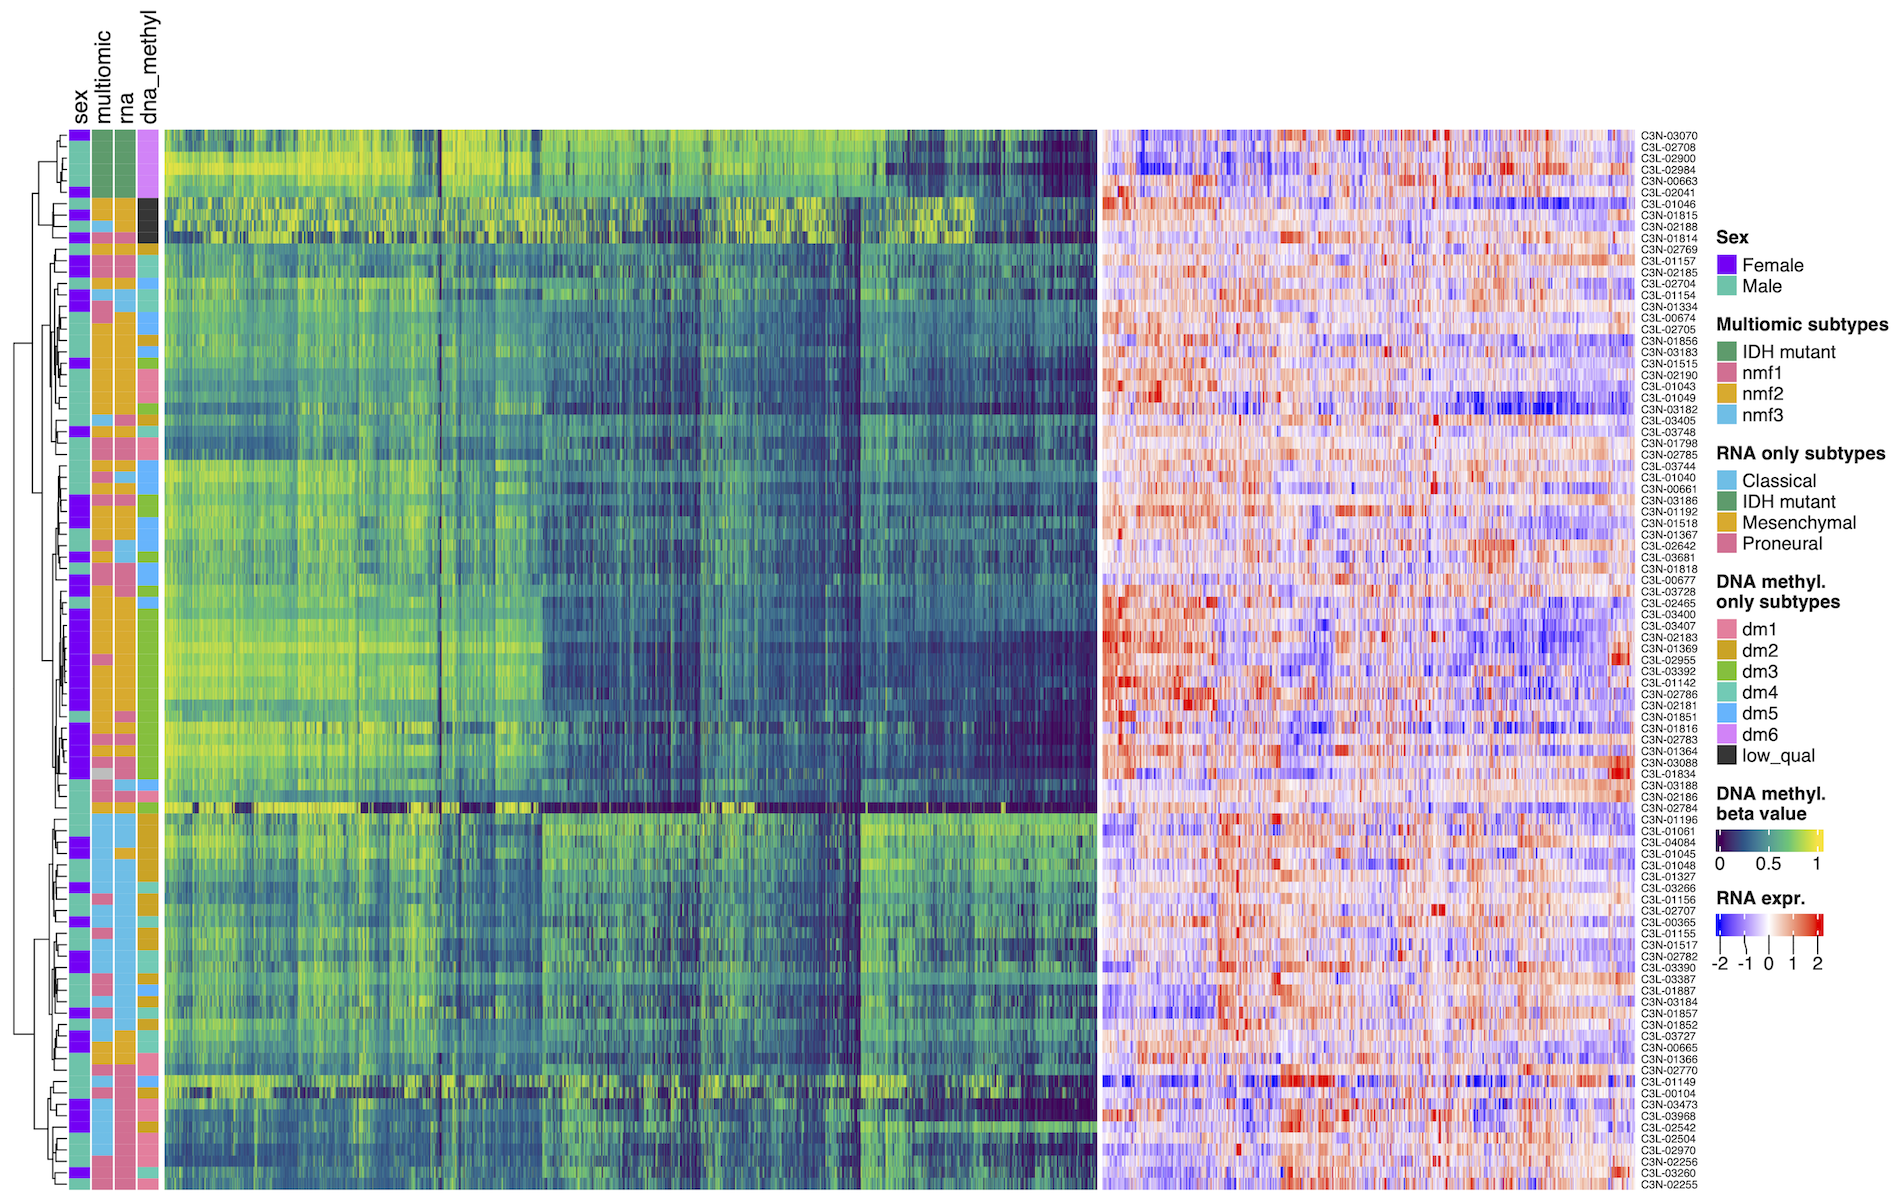
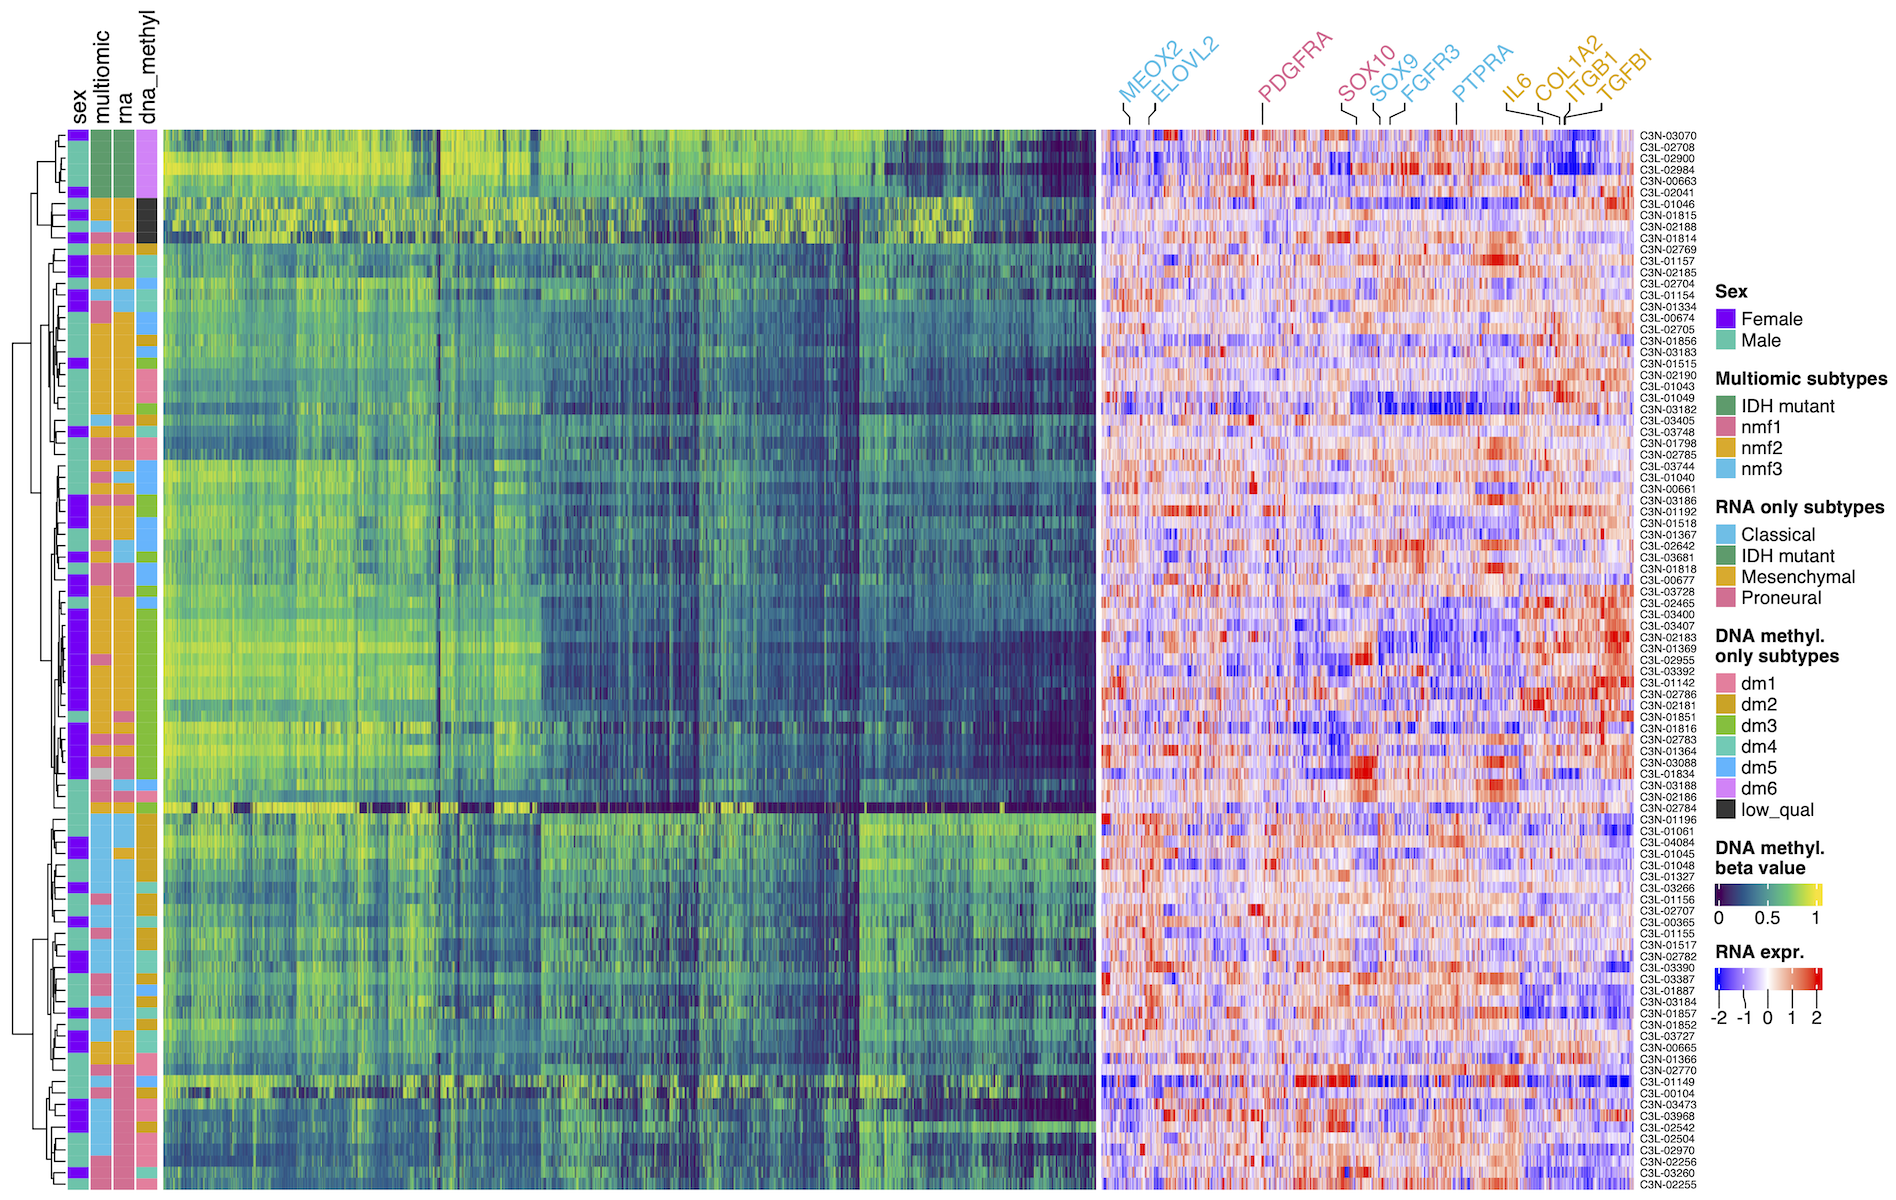
Update heatmap

diff --git a/index.html b/index.html
@@ -1451,7 +1451,7 @@ ggplot(plot_tbl, aes(x = sample, y = completeness)) +
 top_var_probe_ids = assay(dna_methyl) |> rowSds() |>
 	order(decreasing = TRUE) |> head(8000)
 dna_methyl = dna_methyl[top_var_probe_ids, ] |>
-	sort(ignore.strand = TRUE) </code>
+	sort(ignore.strand = TRUE)</code>
 			</pre>
 			<figure class="next">
 				<img class="fill w"
@@ -1654,14 +1654,62 @@ draw(ht_list, merge_legends = TRUE)</code>
 		</style>
 	</section>
 
+	<section id="data-overview-prep" class="slide">
+		<h2>Let's make a data overview heatmap</h2>
+		<div class="two columns l40">
+			<ol>
+				<li>Exclude the features on sex chromosomes (?)</li>
+				<li>Select top variable features</li>
+				<li>Normalize gene expression <br>(relative in[de]crease)</li>
+				<li>Include more sample annotations</li>
+			</ol>
+			<pre class="language-r dense next">
+<code># 1&amp;2. Subset/reorder/rename
+top_variable_genes = rna |>
+    subset(!seqnames %in% c("chrX", "chrY", "chrM"), ) |>
+    assay("tpm_unstranded") |>
+    rowSds() |>
+	order(decreasing = TRUE) |> head(2000)
+rna_top_var = rna[top_variable_genes, shared_samples]
+rownames(rna_top_var) = rowData(rna_top_var)$gene_name
+
+# 3. Normalize gene expression per gene/row
+assay(rna_top_var, "norm_expr") =
+	log2(assay(rna_top_var) + 1) |>
+    t() |>
+	scale(center = T, scale = T) |>
+	t()</code>
+			</pre>
+		</div>
+		<style>
+		</style>
+	</section>
+
 	<section id="data-overview-heatmap" class="slide tight wider">
-		<h2>Data overview heatmap</h2>
+		<h2>Let's make a data overview heatmap</h2>
 		<div class="two columns">
-			<div></div>
-			<figure>
+			<pre class="language-r dense">
+<code># Define shared color palettes
+my_colors = list(
+	rna = c(
+		"IDH mutant" = "#2A9C6A",
+		"Proneural" = "#EC6F95",
+		"Mesenchymal" = "#E8AB16",
+		"Classical"= "#23BFE8"
+	), ...
+)
+ha = rowAnnotation(
+	sex = anno_df$sex,
+	rna = anno_df$rna,
+	...
+	col = my_colors,
+    ...
+)</code>
+			</pre>
+			<figure class="next">
 				<img class="fill w"
 					src="pictures/demo_data_overview_heatmap.png"
-					alt="">
+					alt="Overview of the DNA methylation and gene expression landscape of our glioblastoma cohort.">
 			</figure>
 		</div>
 		<style>
@@ -1671,19 +1719,36 @@ draw(ht_list, merge_legends = TRUE)</code>
 		</style>
 	</section>
 
-	<!-- Two column template -->
-	<section class="slide tight">
-		<h2></h2>
-		<div class="two columns">
-			<pre class="language-r dense">
-<code>
-</code>
-			</pre>
-			<pre class="language-r dense">
-<code>
-</code>
-			</pre>
-		</div>
+	<section class="slide-notes" style="grid-row: span 2;">
+		<h3>Color palettes/mappings reuse</h3>
+		<p>While the color palettes/mappings <code>my_colors</code> can be reused easily in R by exporting it as a <code>RDS</code> file, it's not easy to use from a different language (Python)</p>
+		<pre class="language-r">
+<code># Convert list of color palettes/mappings to a data frame
+my_colors_tbl = my_colors |>
+    imap_dfr(function(palette, name) {
+        palette |>
+            enframe('label', 'color') |>
+            mutate(column = .env$name)
+    }) |>
+    select(column, label, color)
+# # A tibble: 17 × 3
+#   column     label       color
+#   &lt;chr&gt;      &lt;chr&gt;       &lt;chr&gt;
+# 1 sex        Female      #8700F9
+# 2 sex        Male        #00C4AA
+# 3 rna        IDH mutant  #2A9C6A
+# ...
+
+# Reconstruct the list of color palettes/mappings
+# from a exported data frame
+my_colors.recovered = my_colors_tbl |>
+    split(my_colors_tbl$column) |>
+    map(function(data_tbl) {
+        data_tbl |>
+            select(label, color) |>
+            deframe()
+    })</code>
+		</pre>
 	</section>
 
 	<section id="data-overview-final" class="slide">
